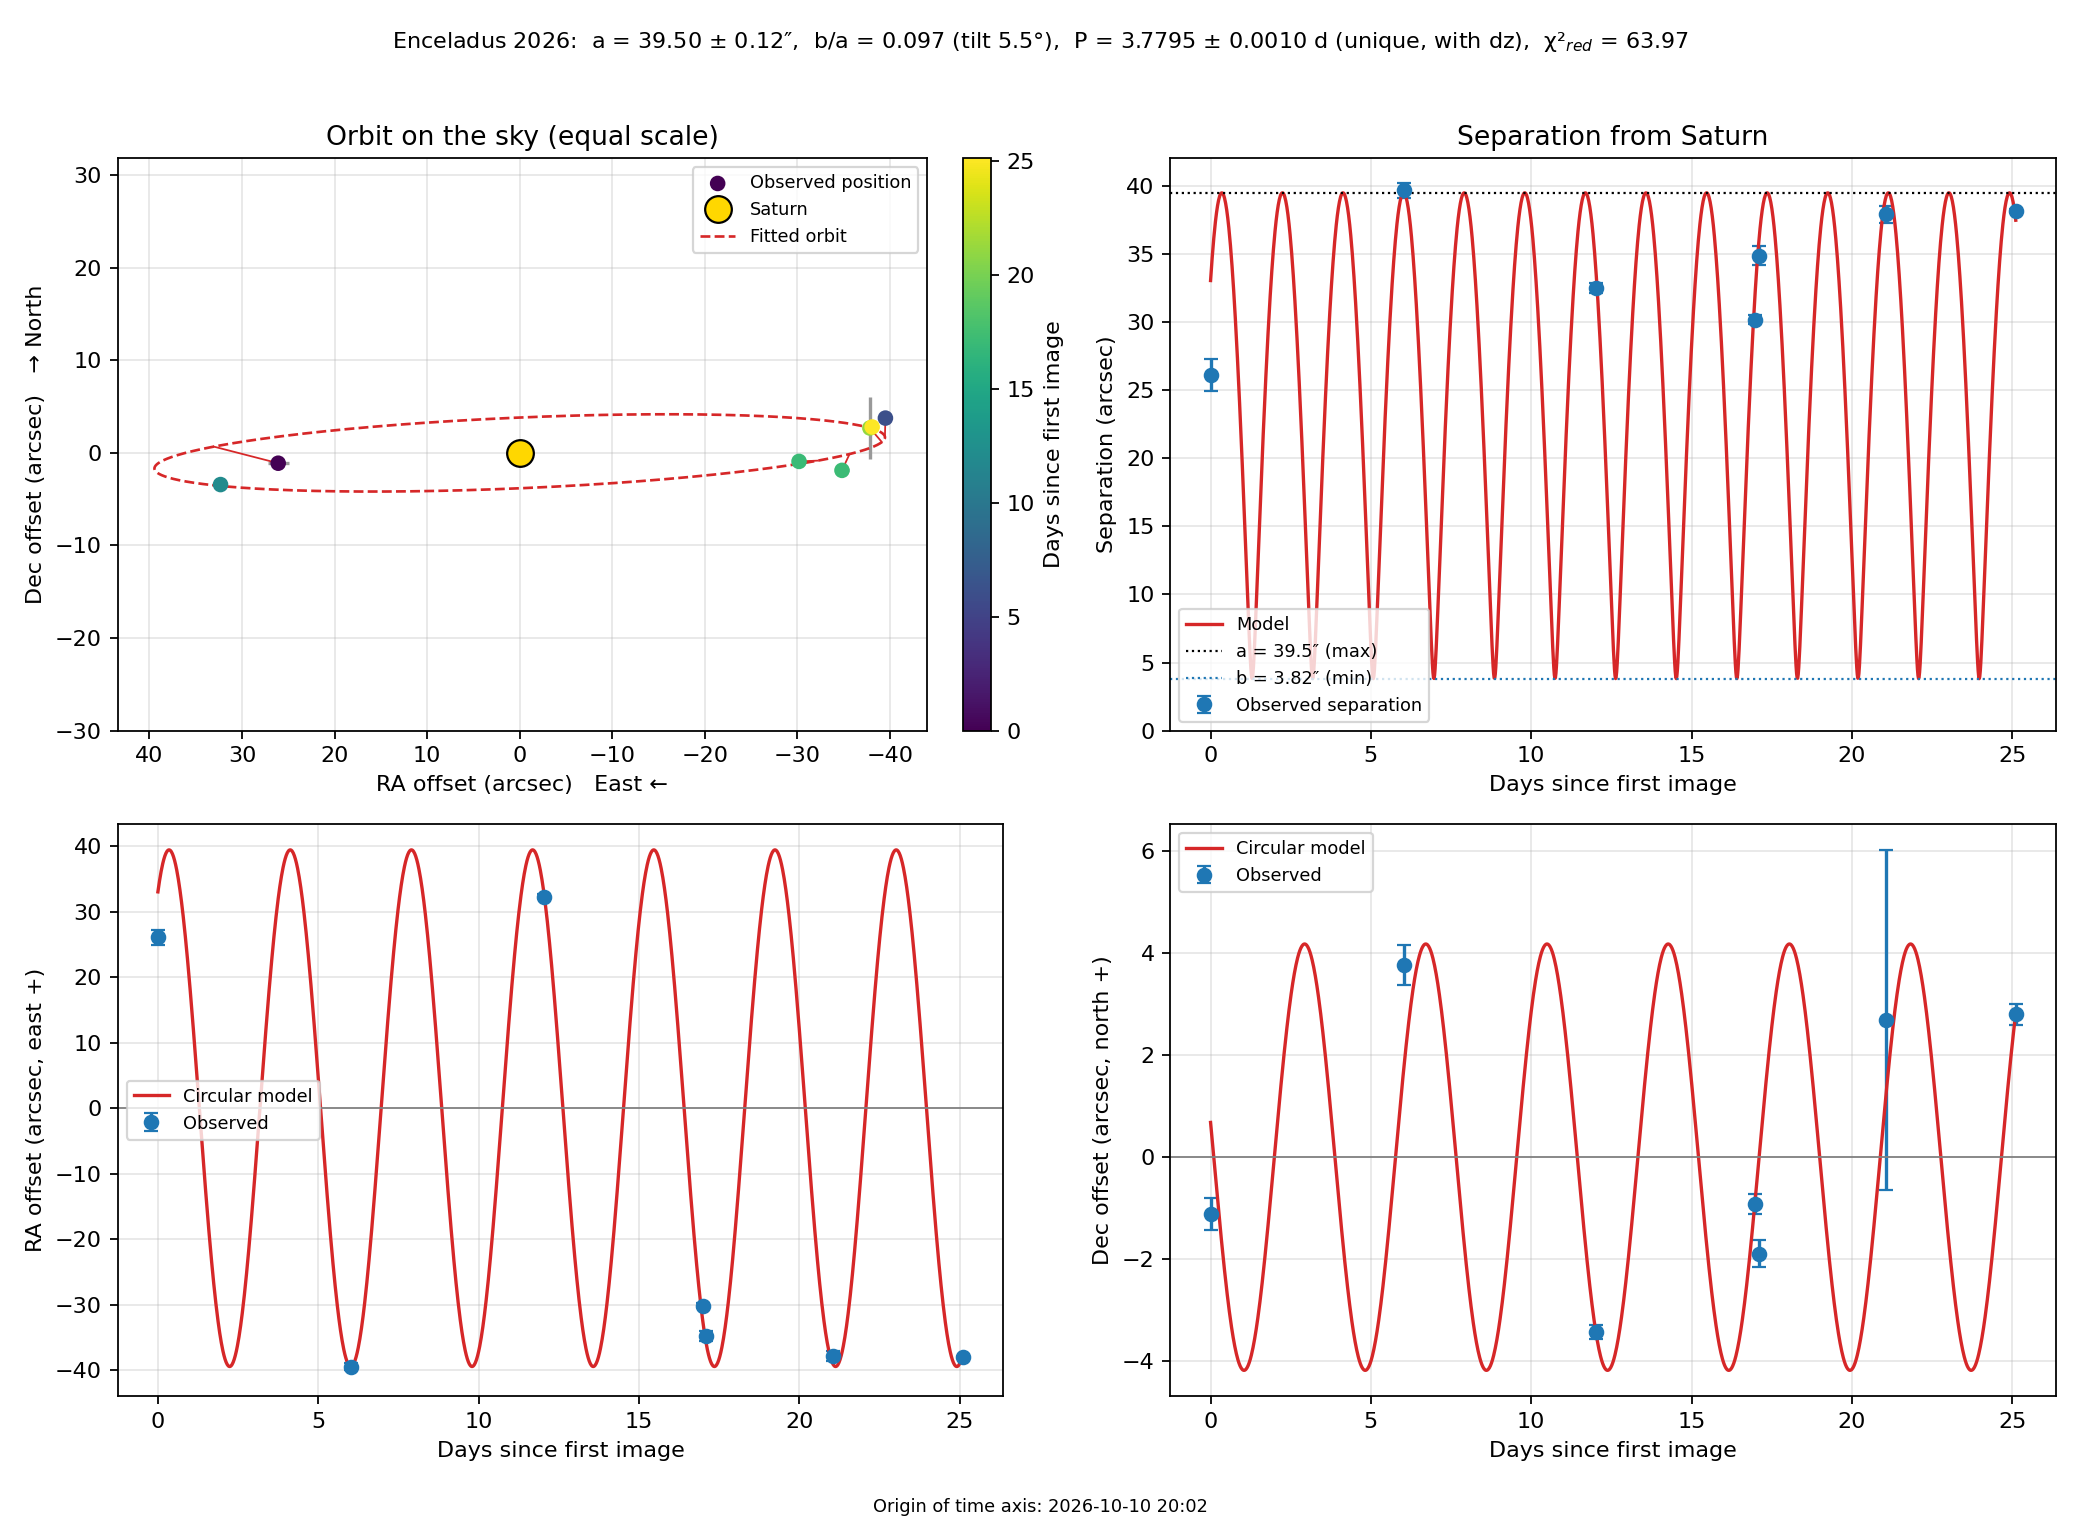
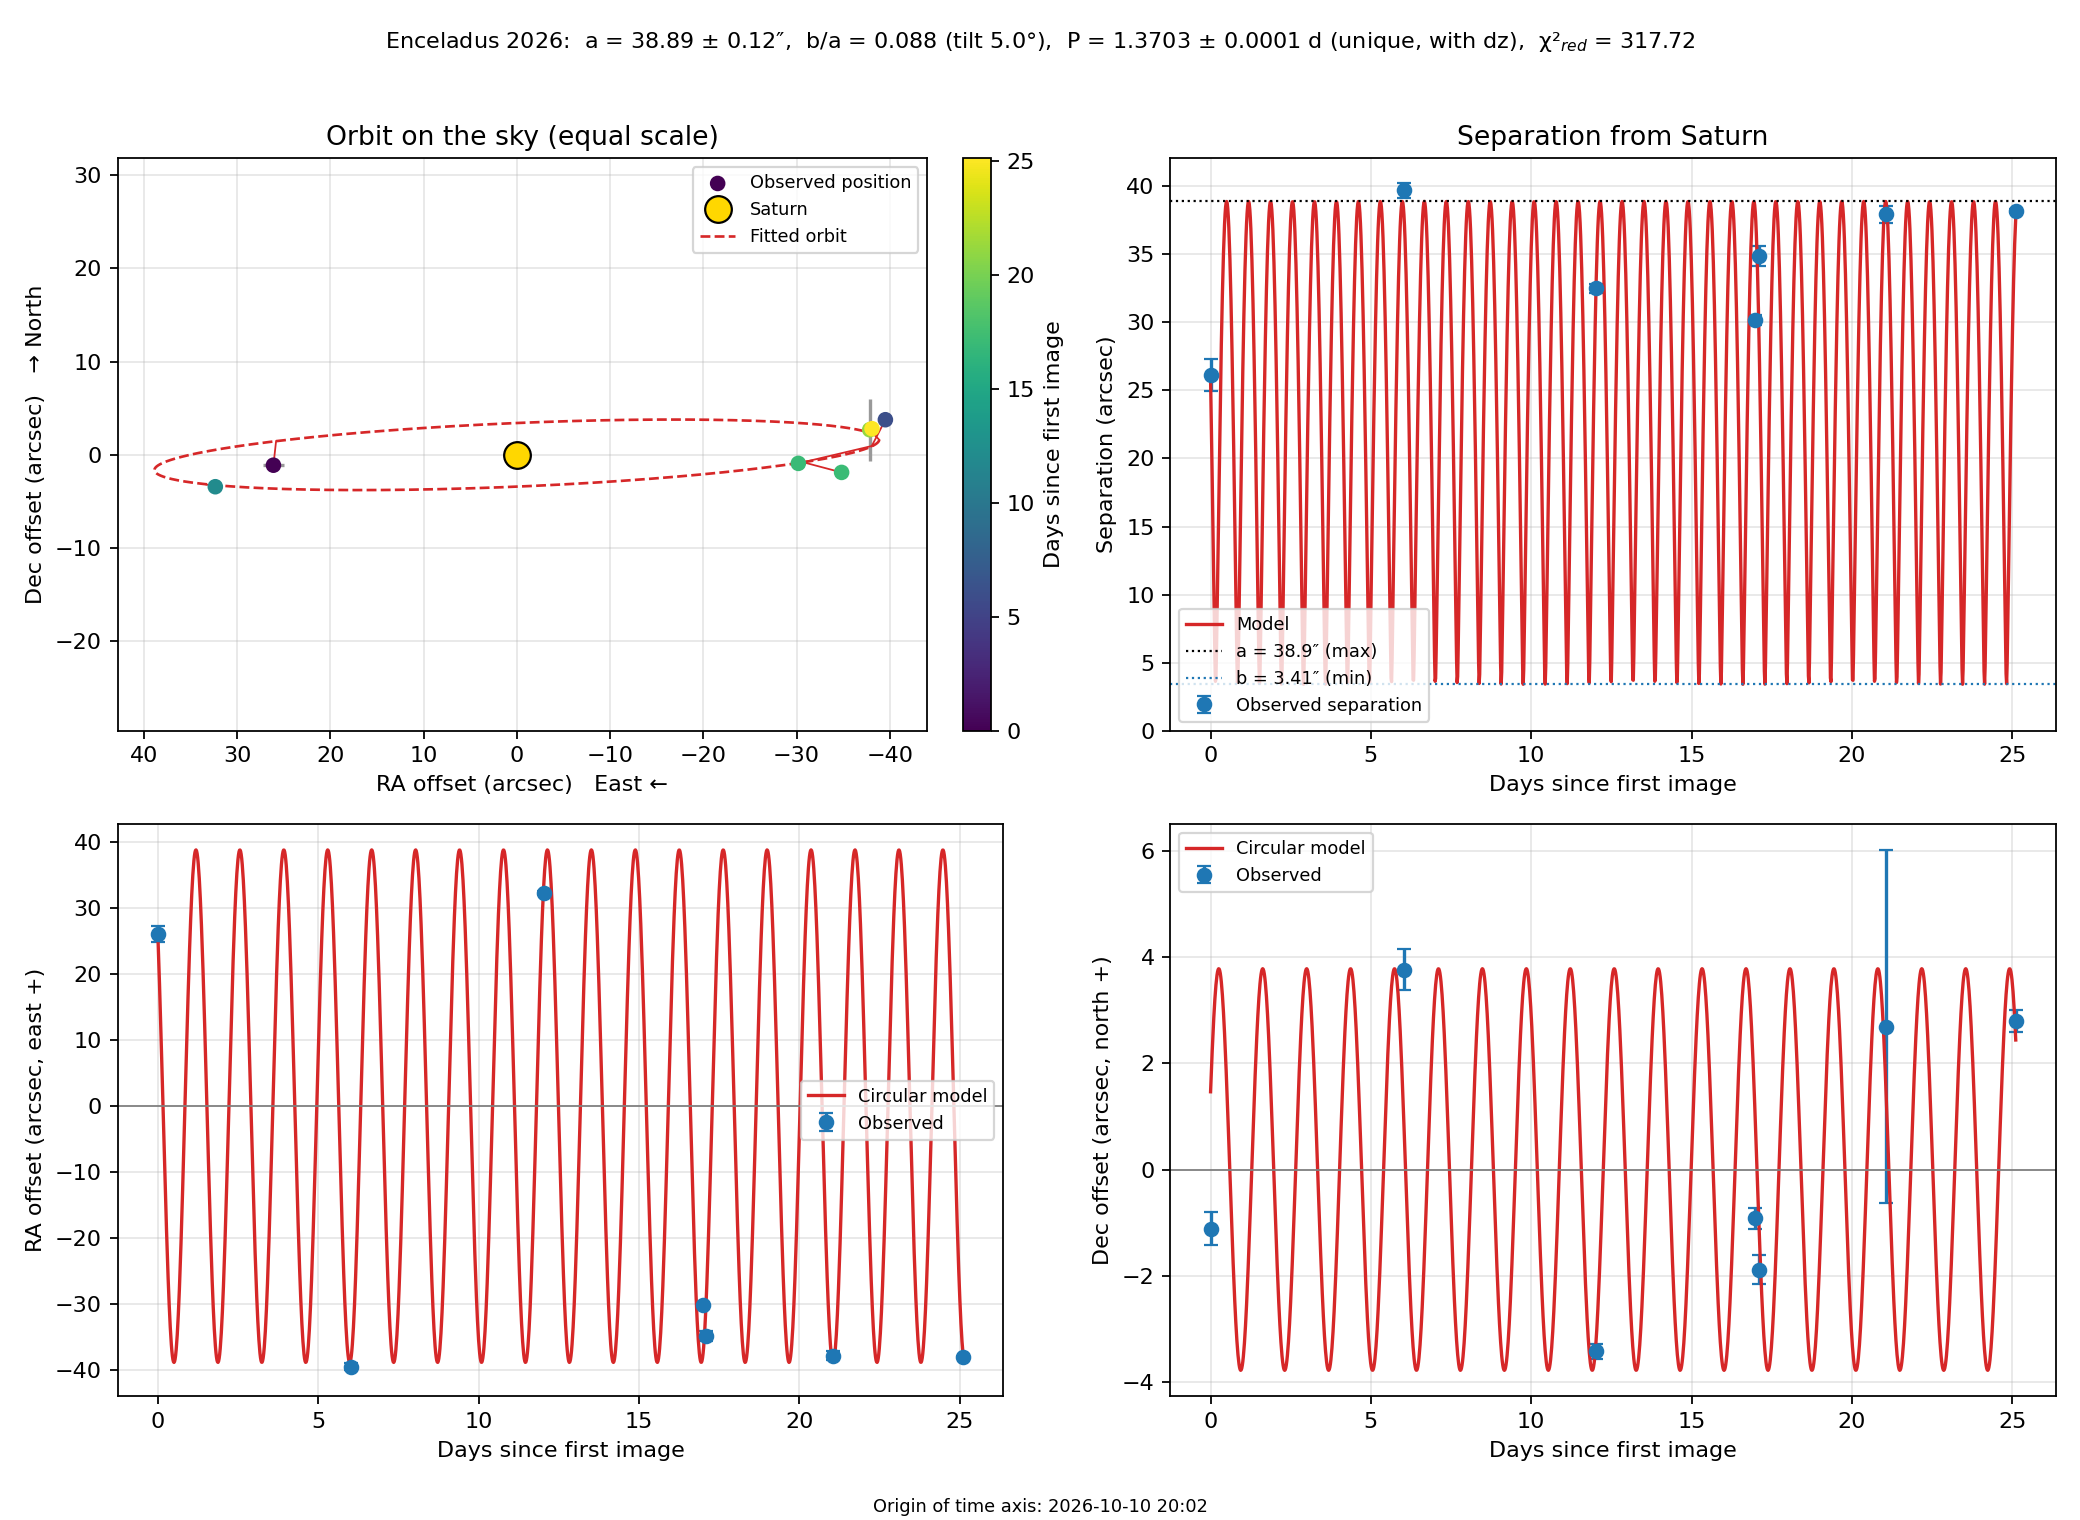
j

diff --git a/orbit_fit.py b/orbit_fit.py
@@ -107,6 +107,13 @@ EXTEND_MODEL_TO_FULL_PERIOD = True
 # 3D orbit diagrams (one extra figure per moon and year).
 MAKE_3D_PLOTS = True
 
+# Direction check. All of a planet's regular moons orbit the same way (the
+# same direction as the planet spins), so an orbit that runs the opposite way
+# to the others is almost certainly an aliased period. A fit counts as
+# "agreeing" if its orbital pole is within this angle of the common one.
+CHECK_DIRECTION = True
+DIRECTION_TOLERANCE_DEG = 60.0
+
 # Animation of the fitted orbits moving through the observing period, with
 # each real measurement appearing on the night it was taken.
 MAKE_ANIMATIONS = True
@@ -370,12 +377,55 @@ def candidate_periods(t, series, weights):
 # FIT
 # ============================================================
 
-def fit_orbit(vis):
+def _pole_vector(a, k, psi, period, phase, sign):
+    """
+    Unit vector along the orbit's angular momentum (the orbital pole) in
+    (east, north, towards Earth). Two orbits run the same way round the planet
+    if their poles point the same way.
+    """
+
+    tt = np.linspace(0.0, period, 240, endpoint=False)
+    x, y = ellipse_model(tt, a, k, psi, period, phase, 0.0, 0.0)
+    z = depth_model(tt, a, k, period, phase, sign)
+    r = np.column_stack([x, y, z])
+    step = tt[1] - tt[0]
+    v = (np.roll(r, -1, axis=0) - np.roll(r, 1, axis=0)) / (2 * step)
+    ang = np.mean(np.cross(r, v), axis=0)
+    norm = np.linalg.norm(ang)
+
+    return ang / norm if norm > 0 else ang
+
+
+def _direction_agrees(pole, used_dz, reference):
+    """
+    True / False, or None when it cannot be told.
+    With dz the whole 3D pole is compared. Without dz only the sense of
+    rotation on the sky (the component towards Earth) is known.
+    """
+
+    if reference is None:
+        return None
+
+    if used_dz:
+        cosine = float(np.clip(np.dot(pole, reference), -1, 1))
+        return bool(np.degrees(np.arccos(cosine)) < DIRECTION_TOLERANCE_DEG)
+
+    if abs(pole[2]) < 0.1 or abs(reference[2]) < 0.1:
+        return None
+
+    return bool(np.sign(pole[2]) == np.sign(reference[2]))
+
+
+def fit_orbit(vis, required_pole=None):
     """
     Weighted least-squares fit of the projected ellipse to the visits.
 
     `vis` is the table from combine_visits(). Returns a dict, or None if the
     data cannot support a fit.
+
+    `required_pole` (optional): unit vector (east, north, towards Earth) of the
+    orbital pole shared by the planet's other moons. Candidate orbits running
+    the opposite way are discarded, which removes aliased solutions.
     """
 
     t = vis["t"].to_numpy(dtype=float)
@@ -488,6 +538,12 @@ def fit_orbit(vis):
                 except (ValueError, RuntimeError):
                     continue
 
+                if required_pole is not None:
+                    x = result.x
+                    pole = _pole_vector(x[0], x[1], x[2], x[3], x[4], sign)
+                    if _direction_agrees(pole, use_z, required_pole) is False:
+                        continue
+
                 if best_here is None or result.cost < best_here[0].cost:
                     best_here = (result, sign)
 
@@ -566,6 +622,7 @@ def fit_orbit(vis):
         "z_sign": sign_wrapped,
         "psi_raw": p[2], "phase_raw": p[4], "z_sign_raw": sign,
         "chi2": chi2, "dof": dof,
+        "pole": _pole_vector(p[0], p[1], p[2], p[3], p[4], sign),
         "period_status": period_status,
         "alternatives": alternatives,
         "next_period": next_period,
@@ -1560,6 +1617,7 @@ PARENT_BODY_LOOKUP = {}
 
 FIT_COLUMNS = [
     "moon", "year", "parent", "n_images", "n_visits", "n_nights", "status",
+    "direction_check",
     "used_dz_in_fit", "a_arcsec", "a_err_arcsec", "a_km", "a_err_km",
     "b_arcsec", "b_over_a", "b_over_a_err",
     "tilt_deg", "psi_deg", "psi_err_deg",
@@ -1570,6 +1628,47 @@ FIT_COLUMNS = [
     "ecc_a_arcsec", "ecc_a_km", "ecc_a_err_km", "ecc_chi2_red", "ecc_delta_chi2",
     "ecc_p_value",
 ]
+
+
+def _direction_references(prepared, parent_body, year):
+    """
+    The orbital pole shared by most of each planet's moons (needs dz, so that
+    the pole is known in 3D). The pole is the average of the moons that agree
+    with each other; if two candidates tie, the one with the larger orbit
+    (longer period, so less prone to aliasing) wins.
+    """
+
+    references = {}
+    by_parent = {}
+
+    for moon, (_, _, fit) in prepared.items():
+        if fit is not None and fit["used_dz"]:
+            by_parent.setdefault(parent_body.get(moon, "planet"), []).append((moon, fit))
+
+    for parent, entries in by_parent.items():
+        if len(entries) < 2:
+            continue
+
+        tol = np.cos(np.radians(DIRECTION_TOLERANCE_DEG))
+        best = None
+
+        for moon_i, fit_i in entries:
+            group = [
+                (m, f) for m, f in entries
+                if float(np.dot(f["pole"], fit_i["pole"])) > tol
+            ]
+            rank = (len(group), fit_i["a"])
+
+            if best is None or rank > best[0]:
+                best = (rank, group)
+
+        group = best[1]
+        mean_pole = np.mean([f["pole"] for _, f in group], axis=0)
+        references[parent] = mean_pole / np.linalg.norm(mean_pole)
+        names = ", ".join(m for m, _ in group)
+        print(f"Direction check {parent} {year}: common orbital direction set by {names}.")
+
+    return references
 
 
 def fit_and_plot_orbits(df, out_dir, initial_periods=None, parent_body=None):
@@ -1619,19 +1718,66 @@ def fit_and_plot_orbits(df, out_dir, initial_periods=None, parent_body=None):
         groups = {}
         year_records = []
 
+        # First pass: fit every moon on its own.
+        prepared = {}
+
         for moon, group in year_df.groupby("moon"):
             group = group.sort_values("datetime").copy()
-
             origin = group["datetime"].min()
             group["t"] = (
                 (group["datetime"] - origin).dt.total_seconds() / 86400.0
             )
+            visits = combine_visits(group)
+            prepared[moon] = (group, visits, fit_orbit(visits))
 
+        # Second pass: all moons of one planet must orbit the same way.
+        direction_notes = {moon: "not checked" for moon in prepared}
+
+        if CHECK_DIRECTION:
+            references = _direction_references(prepared, parent_body, year)
+
+            for moon, (group, visits, fit) in list(prepared.items()):
+                if fit is None:
+                    continue
+
+                parent = parent_body.get(moon, "planet")
+                reference = references.get(parent)
+                verdict = _direction_agrees(fit["pole"], fit["used_dz"], reference)
+
+                if verdict is True:
+                    direction_notes[moon] = "agrees with the other moons"
+                elif verdict is False:
+                    old_period = fit["period"]
+                    corrected = fit_orbit(visits, required_pole=reference)
+
+                    if corrected is not None:
+                        prepared[moon] = (group, visits, corrected)
+                        direction_notes[moon] = (
+                            f"opposite direction at P = {old_period:.3f} d; "
+                            "refitted with the common direction"
+                        )
+                        print(
+                            f"Direction check: {moon} {year} ran the opposite way to the "
+                            f"other moons at P = {old_period:.3f} d (probably an alias). "
+                            f"Refitted with the common direction: P = {corrected['period']:.4f} d "
+                            f"({corrected['period_status']}, chi2_red {fit['chi2_red']:.1f} -> "
+                            f"{corrected['chi2_red']:.1f})."
+                        )
+                    else:
+                        fit["period_status"] = (
+                            "ambiguous (runs opposite to the other moons: probable alias)"
+                        )
+                        direction_notes[moon] = "opposite direction, could not be corrected"
+                        print(
+                            f"Direction check: {moon} {year} runs the opposite way to the "
+                            f"other moons and no period with the right direction fits; "
+                            "marked ambiguous."
+                        )
+
+        for moon, (group, visits, fit) in prepared.items():
+            origin = group["datetime"].min()
             n_nights = int(group["datetime"].dt.normalize().nunique())
             parent = parent_body.get(moon, "planet")
-
-            visits = combine_visits(group)
-            fit = fit_orbit(visits)
 
             if fit is not None and moon in ECCENTRIC_MOONS:
                 fit["ecc"] = fit_eccentric(visits, fit)
@@ -1643,6 +1789,7 @@ def fit_and_plot_orbits(df, out_dir, initial_periods=None, parent_body=None):
                 "moon": moon, "year": year, "parent": parent,
                 "n_images": len(group), "n_visits": len(visits),
                 "n_nights": n_nights,
+                "direction_check": direction_notes.get(moon, "not checked"),
             }
 
             if fit is None:
